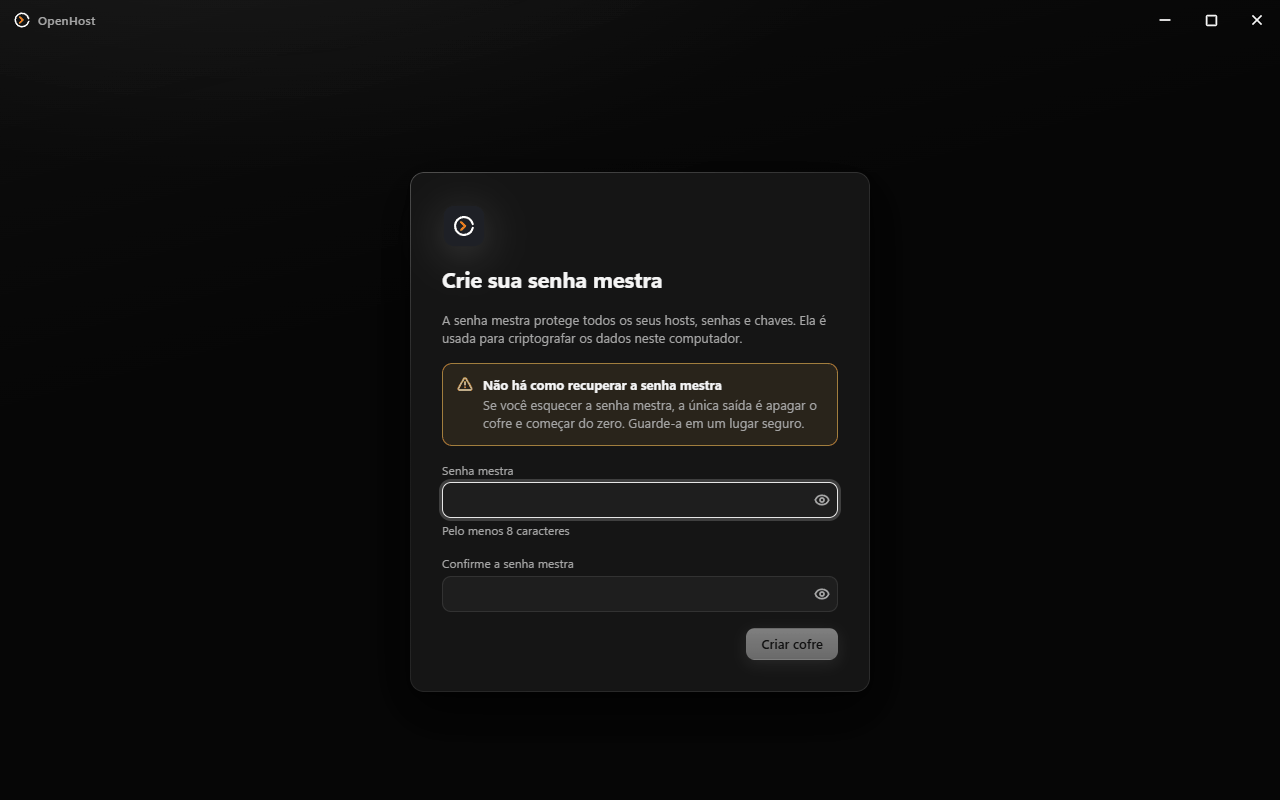
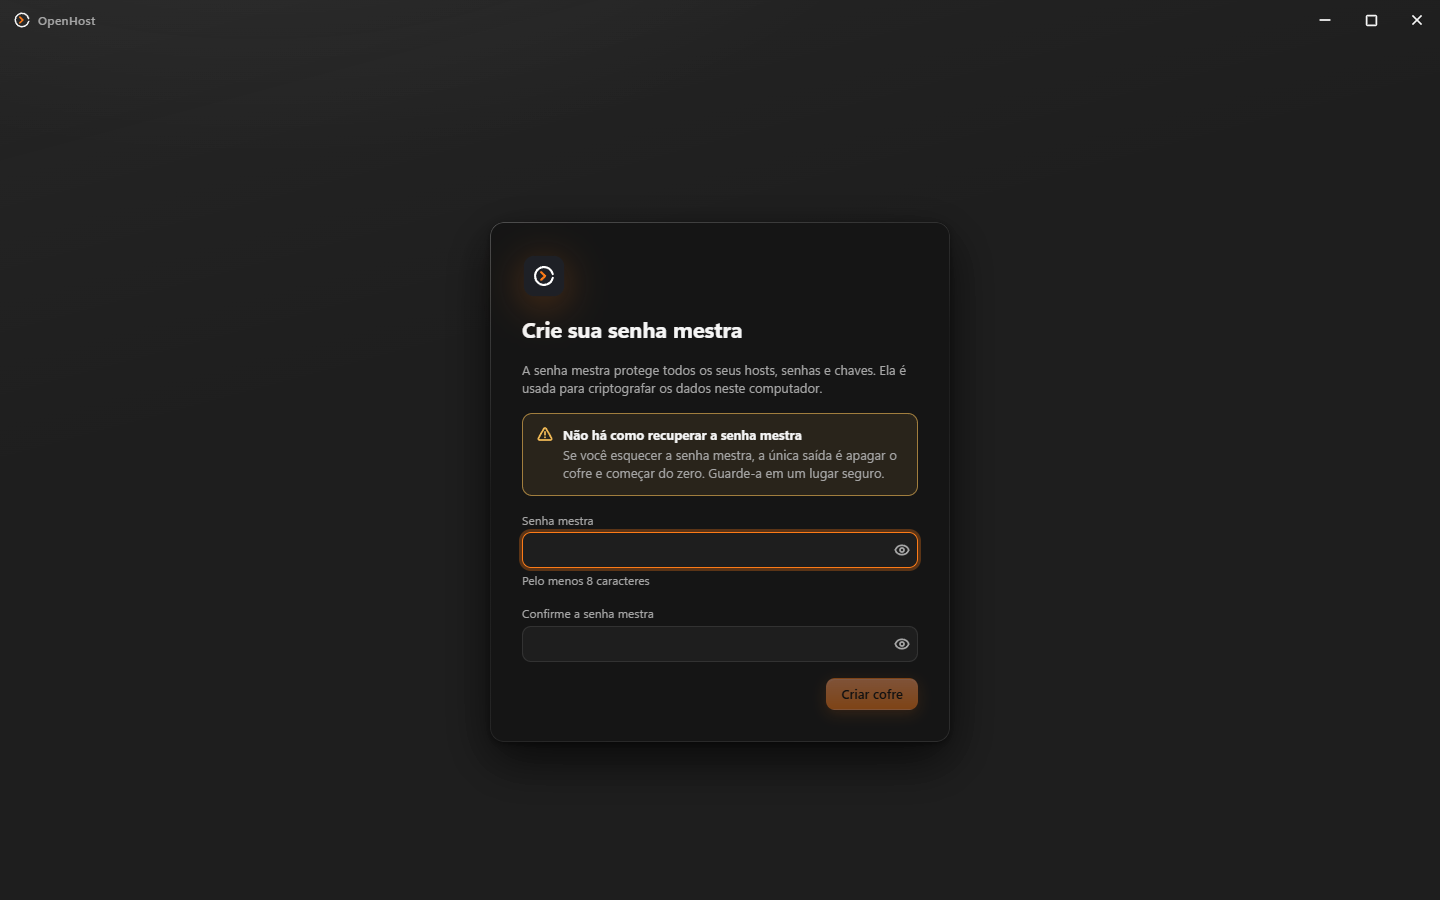
docs: README atualizado para a 0.9.0 com prints novos
Tira a migração do cofre da versão 001 e os prints da 0.4.

diff --git a/README.md b/README.md
@@ -1,39 +1,90 @@
 # OpenHost
 
-OpenHost é um cliente SSH desktop local-first para Windows, Linux e macOS. Ele reúne terminal SSH e local,
-cofre criptografado, organização de hosts e credenciais, SFTP, encaminhamento de portas e
-perfis de terminal em uma aplicação nativa construída com Go, Wails e React.
+Cliente SSH de desktop para quem passa o dia no terminal, feito para equipes de redes,
+infraestrutura e NOC. Reúne terminal SSH e local em abas, cofre criptografado de senhas e chaves,
+SFTP, encaminhamento de portas, comandos salvos e painéis lado a lado num app nativo para Windows,
+Linux e macOS.
 
-O nome visível do produto é **OpenHost**. Identificadores internos e o diretório de dados
-continuam usando `ShellVault` para manter compatibilidade com versões anteriores.
+**[Baixar a versão mais recente](https://github.com/EmersonRicard0/Openhost/releases/latest)** ·
+versão atual: 0.9.0
 
-**[Baixar para Windows, Linux ou macOS](https://github.com/EmersonRicard0/Openhost/releases)**
+![Terminal SSH com a lista de hosts](docs/screenshots/03-terminal-ssh.png)
 
-![Terminal SSH com a lista de hosts](docs/screenshots/02-terminal-ssh.png)
+## O que ele faz
+
+**Cofre local e seguro**
+- Senhas, chaves privadas e passphrases ficam num cofre protegido pela senha mestra
+  (Argon2id + XChaCha20-Poly1305). Funciona sem conta e sem internet.
+- Bloqueio automático por inatividade, chave do servidor sempre conferida e segredos fora de logs
+  e mensagens de erro.
+
+**Hosts organizados**
+- Grupos e subgrupos com arrastar e soltar, ambientes coloridos (Produção, Homologação,
+  Laboratório, Cliente ou seus), tags e notas. A busca procura em nome, endereço, usuário, tags e
+  notas.
+- Ícone do fabricante detectado ao conectar: Cisco, Huawei, Juniper, MikroTik, ZTE, Datacom,
+  Fortinet, Hillstone e sistemas Linux.
+- Algoritmos legados por host, para equipamentos antigos, com aviso permanente na lista.
+- Tela inicial com favoritos e recentes, e conexão rápida digitando `usuário@host:porta` ou um
+  `ssh -p`.
+
+**Terminal**
+- SSH por senha, chave, agente ou “perguntar ao conectar”; terminais locais (PowerShell, Prompt de
+  Comando, PowerShell 7, Git Bash, WSL, bash/zsh/fish).
+- A aba mostra o nome lido do prompt do equipamento e a cor do ambiente; o terminal ganha uma borda
+  na mesma cor.
+- Reconexão automática quando a rede cai, busca no histórico, zoom por aba e aceleração por GPU
+  opcional.
+- Até 4 painéis por aba, arrastando uma aba sobre o terminal, sem reconectar.
+- **Digitar no grupo** (Ctrl+Shift+G): o que você digita no painel ativo chega aos outros. Painéis
+  de Produção só entram depois de confirmar.
+
+**Comandos salvos e paleta**
+- Comandos com tags e campos a preencher (`display interface {interface}`), cifrados no cofre.
+- Paleta (Ctrl+Shift+P) com hosts, comandos, terminais e ações: Enter envia ao painel ativo e
+  Shift+Enter ao grupo inteiro.
+
+**Arquivos e rede**
+- Navegador SFTP numa aba, com transferências em paralelo, progresso e cancelamento.
+- Encaminhamento de portas local, remoto e dinâmico (SOCKS) por host.
+
+**Do seu jeito**
+- Tema claro ou escuro, vidro ou sólido, cor de destaque, lista confortável ou compacta.
+- Fonte, tamanho, cursor e esquemas de cores do terminal, com importação do Windows Terminal e do
+  iTerm. Atalhos configuráveis.
+- Animações Completas, Reduzidas ou Desligadas; por padrão segue o “reduzir movimento” do sistema.
+
+**Sincronização e atualização**
+- Sincronização opcional pelo Google Drive: hosts, grupos, credenciais, comandos e preferências
+  vão cifrados com a chave do cofre. Nem o Google nem o projeto conseguem ler nada.
+- O app avisa quando sai versão nova e se atualiza sozinho, conferindo assinatura e
+  `SHA256SUMS.txt` antes de instalar.
 
 | | |
 |---|---|
-| ![Paleta de comandos](docs/screenshots/03-paleta.png) | ![Navegador SFTP](docs/screenshots/04-sftp.png) |
-| **Paleta de comandos** (Ctrl+Shift+P): hosts, terminais locais detectados e ações. | **SFTP** com transferências em paralelo, na mesma aba de trabalho. |
-| ![Personalização do terminal](docs/screenshots/05-personalizacao.png) | ![Host com algoritmos legados](docs/screenshots/06-host-legado.png) |
-| **Personalização ao vivo**: fonte, tamanho e esquemas de cores, com importação de Windows Terminal e iTerm. | **Equipamentos legados**: algoritmos antigos por host, com aviso permanente na lista. |
-
-![Criação do cofre](docs/screenshots/01-cofre.png)
-
-O cofre é criptografado com a senha mestra (Argon2id + XChaCha20-Poly1305) e nunca sai do
-computador.
+| ![Tela inicial](docs/screenshots/02-inicio.png) | ![Cadastro de host](docs/screenshots/10-host.png) |
+| **Tela inicial**: favoritos, conexão rápida e hosts por grupo. | **Cadastro de host**: ambiente, autenticação, tags, notas e perfil próprio. |
+| ![Painéis lado a lado](docs/screenshots/04-paineis.png) | ![Digitar no grupo](docs/screenshots/05-digitar-no-grupo.png) |
+| **Painéis**: SSH e terminal local na mesma aba. | **Digitar no grupo**: um comando para vários equipamentos. |
+| ![Paleta de comandos](docs/screenshots/06-paleta.png) | ![Comandos salvos](docs/screenshots/07-comandos.png) |
+| **Paleta** (Ctrl+Shift+P): hosts, comandos e ações. | **Comandos salvos** com tags e campos. |
+| ![Navegador SFTP](docs/screenshots/08-sftp.png) | ![Aparência](docs/screenshots/09-aparencia.png) |
+| **SFTP** na mesma área de trabalho. | **Aparência**: tema, destaque, densidade, animações e ambientes. |
 
 ## Instalar
 
-Baixe o arquivo do seu sistema na [página de releases](https://github.com/EmersonRicard0/Openhost/releases):
+Baixe o arquivo do seu sistema na [página de releases](https://github.com/EmersonRicard0/Openhost/releases/latest):
 
 | Sistema | Arquivo | Versão mínima |
 |---|---|---|
 | Windows | `OpenHost-<versão>-windows-amd64-installer.exe` | Windows 10 (64 bits) |
 | macOS (Intel e Apple Silicon) | `OpenHost-<versão>-macos-universal.dmg` | macOS 12 |
-| Ubuntu, Debian | `openhost_<versão>_amd64.deb` | Ubuntu 22.04, Debian 12 |
-| Fedora, openSUSE | `openhost-<versão>-1.x86_64.rpm` | Fedora 39, openSUSE Leap 15.5 |
-| Qualquer Linux | `OpenHost-<versão>-x86_64.AppImage` | WebKitGTK 4.1 instalado |
+| Ubuntu, Debian | `openhost_<versão>_amd64.deb` ou `_arm64.deb` | Ubuntu 22.04, Debian 12 |
+| Fedora, openSUSE | `openhost-<versão>-1.x86_64.rpm` ou `.aarch64.rpm` | Fedora 39, openSUSE Leap 15.5 |
+| Qualquer Linux | `OpenHost-<versão>-x86_64.AppImage` ou `-aarch64.AppImage` | WebKitGTK 4.1 instalado |
+
+Confira o download com o `SHA256SUMS.txt`. Depois de instalado, as próximas versões chegam pelo
+próprio app.
 
 **Primeira abertura no macOS.** O app ainda não tem assinatura da Apple. Arraste-o para
 Aplicativos, clique com o botão direito nele e escolha **Abrir** (no macOS 15+, use **Ajustes do
@@ -42,149 +93,12 @@ Sistema → Privacidade e Segurança → Abrir Mesmo Assim**). Pelo Terminal:
 
 **Linux.** `sudo apt install ./openhost_<versão>_amd64.deb` ou
 `sudo dnf install ./openhost-<versão>-1.x86_64.rpm`; o AppImage roda com `chmod +x` e não precisa
-instalar. Desinstalar não apaga o cofre.
+instalar. Nos pacotes `.deb` e `.rpm`, o app baixa a atualização e mostra o comando para instalar.
+Desinstalar não apaga o cofre.
 
 O cofre fica em `%APPDATA%\ShellVault` no Windows, `~/.config/ShellVault` no Linux e
-`~/Library/Application Support/ShellVault` no macOS.
-
-## Requisitos para desenvolver
-
-- Go 1.26 ou superior. O módulo declara Go 1.26.0.
-- Wails CLI 2.17.0:
-
-  ```sh
-  go install github.com/wailsapp/wails/v2/cmd/wails@v2.17.0
-  wails doctor
-  ```
-
-- Node.js 24 LTS e npm para compilar e testar o frontend.
-- Docker para os servidores SSH dos testes de integração e E2E e para validar o Linux.
-
-Por sistema:
-
-- **Windows**: Windows 11 ou 10; WebView2 Runtime (já vem no Windows 11); NSIS para gerar o
-  instalador com `wails build -nsis`; OpenSSH Client e `ssh-agent` para validar o agente.
-- **Linux**: compilador C, GTK 3 e WebKitGTK 4.1. No Ubuntu/Debian:
-  `sudo apt install build-essential pkg-config libgtk-3-dev libwebkit2gtk-4.1-dev`. Todo comando
-  `go`/`wails` leva `-tags webkit2_41` (o Wails 2 procura o WebKitGTK 4.0 sem ela).
-- **macOS**: Xcode Command Line Tools (`xcode-select --install`).
-
-Instale as dependências das ferramentas de teste e do frontend depois de obter o repositório:
-
-```sh
-npm ci
-npm --prefix frontend ci
-```
-
-## Desenvolvimento
-
-Na raiz do repositório, inicie o aplicativo com recarga automática do frontend:
-
-```sh
-wails dev                      # no Linux: wails dev -tags webkit2_41
-```
-
-O Wails usa `frontend/` como projeto web e executa os scripts definidos no
-[`wails.json`](wails.json).
-
-## Build
-
-Os builds otimizados saem em `build/bin/`:
-
-```sh
-# Windows: executável e instalador NSIS
-wails build -clean -nsis -trimpath -ldflags "-s -w"
-
-# Linux
-wails build -clean -tags webkit2_41 -trimpath -ldflags "-s -w"
-scripts/package-linux.sh 0.4.0 amd64          # .deb, .rpm e AppImage em dist/ (nfpm e appimagetool)
-
-# macOS (Intel e Apple Silicon no mesmo .app)
-wails build -clean -platform darwin/universal -trimpath -ldflags "-s -w"
-scripts/package-macos.sh 0.4.0                # .dmg em dist/
-```
-
-O executável mantém o nome interno `shellvault`; o produto instalado é apresentado como
-OpenHost. Para validar os pacotes do Linux em contêineres (Ubuntu 22.04 e 24.04, Fedora 39):
-`scripts/linux-docker-check.sh`.
-
-## Publicar uma versão
-
-O workflow de release é disparado por tags no formato `vX.Y.Z`. Antes de publicar, mantenha o
-número em `wails.json` alinhado com a tag, escreva `docs/release-notes/X.Y.Z.md` e confirme que
-`node scripts/check.mjs` está verde.
-
-Crie e envie a tag a partir do commit que será publicado:
-
-```sh
-git tag v0.4.0
-git push origin v0.4.0
-```
-
-O GitHub Actions compila nos três sistemas, confere os binários, gera o instalador do Windows, o
-`.dmg` universal e os pacotes do Linux (amd64 e, quando der, arm64), publica tudo com o
-`SHA256SUMS.txt` e usa as notas de `docs/release-notes/`. Tags com sufixo, como
-`v0.4.0-rc.1`, saem como pré-release.
-
-## Testes
-
-Testes Go:
-
-```powershell
-go test ./...
-```
-
-Testes unitários do frontend:
-
-```powershell
-npm --prefix frontend run test
-```
-
-O teste de abertura compila o app com `-tags smoke`, abre com um diretório de dados vazio, cria
-cofre, host e chave e confere que nenhum segredo ficou legível em disco (no Linux sem tela, use
-`xvfb-run`):
-
-```sh
-node scripts/smoke.mjs
-```
-
-O portão de qualidade completo também executa `go vet`, testes Go, verificação de tokens,
-lint, verificação de tipos e testes do frontend:
-
-```powershell
-node scripts/check.mjs
-```
-
-Para os testes de integração, inicie primeiro as fixtures Docker e depois execute os pacotes
-Go com a tag `integration`:
-
-```powershell
-node scripts/sshd.mjs up
-go test -tags integration ./internal/...
-```
-
-Ao terminar, os contêineres podem ser removidos com:
-
-```powershell
-node scripts/sshd.mjs down
-```
-
-Os testes E2E são executados a partir de `frontend/`. O setup do Playwright gera
-automaticamente um build Wails com a tag `e2e`:
-
-```powershell
-Set-Location frontend
-npx playwright test
-```
-
-Quando `build/bin/shellvault-e2e.exe` já tiver sido gerado e não precisar ser recompilado,
-use `SHELLVAULT_E2E_SKIP_BUILD=1`:
-
-```powershell
-$env:SHELLVAULT_E2E_SKIP_BUILD = "1"
-npx playwright test
-Remove-Item Env:SHELLVAULT_E2E_SKIP_BUILD
-```
+`~/Library/Application Support/ShellVault` no macOS. `ShellVault` é o nome interno do projeto,
+mantido para compatibilidade.
 
 ## Importar e exportar
 
@@ -207,36 +121,105 @@ primeira conexão. A última importação pode ser desfeita.
 
 Para exportar, use **Exportar…** na mesma tela, no menu de um grupo ou no de um host:
 
-- **OpenHost** (`.openhost`): para levar tudo a outro computador. Com *Incluir chaves privadas*,
-  o arquivo inteiro é criptografado com uma senha sua (Argon2id + XChaCha20-Poly1305) e a senha
-  mestra é pedida antes; sem chaves, ele não contém segredo nenhum, mas endereços e usuários
-  ficam legíveis.
+- **OpenHost** (`.openhost`): para levar tudo a outro computador, incluindo os comandos salvos.
+  Com *Incluir chaves privadas*, o arquivo inteiro é criptografado com uma senha sua
+  (Argon2id + XChaCha20-Poly1305) e a senha mestra é pedida antes; sem chaves, ele não contém
+  segredo nenhum, mas endereços e usuários ficam legíveis.
 - **OpenSSH**: blocos `Host` para um arquivo novo ou acrescentados ao `~/.ssh/config`, entre
   marcadores do OpenHost e com cópia de segurança do arquivo antes.
 - **CSV**: no mesmo modelo da importação.
 
-## Migração do cofre anterior
+## Desenvolver
 
-No Windows, a versão Wails reconhece automaticamente o cofre da versão 001 no diretório:
+O projeto usa Go, [Wails](https://wails.io) e React, e segue o fluxo do
+[GitHub Spec Kit](https://github.com/github/spec-kit): cada funcionalidade tem spec, plano e
+tarefas em [`specs/`](specs).
 
-```text
-%APPDATA%\ShellVault
+Requisitos:
+
+- Go 1.26 ou superior.
+- Wails CLI 2.17.0:
+
+  ```sh
+  go install github.com/wailsapp/wails/v2/cmd/wails@v2.17.0
+  wails doctor
+  ```
+
+- Node.js 24 LTS e npm.
+- Docker para os servidores SSH dos testes de integração e E2E e para validar o Linux.
+
+Por sistema:
+
+- **Windows**: Windows 10 ou 11; WebView2 Runtime (já vem no Windows 11); NSIS para gerar o
+  instalador; OpenSSH Client e `ssh-agent` para validar o agente.
+- **Linux**: compilador C, GTK 3 e WebKitGTK 4.1. No Ubuntu/Debian:
+  `sudo apt install build-essential pkg-config libgtk-3-dev libwebkit2gtk-4.1-dev`. Todo comando
+  `go`/`wails` leva `-tags webkit2_41`.
+- **macOS**: Xcode Command Line Tools (`xcode-select --install`).
+
+Instale as dependências e rode o app com recarga automática do frontend:
+
+```sh
+npm ci
+npm --prefix frontend ci
+wails dev                      # no Linux: wails dev -tags webkit2_41
 ```
 
-Quando `vault.svlt` existe e ainda não há `shellvault.db`, a tela de desbloqueio informa que
-encontrou um cofre anterior. Ao digitar a senha mestra correta, o aplicativo migra numa única
-transação:
+## Build
 
-- grupos e sua hierarquia;
-- hosts e ordem de exibição;
-- credenciais de senha e chave;
-- chaves de servidores já conhecidas;
-- regras de encaminhamento;
-- configurações do cofre e preferências da interface.
+Os builds otimizados saem em `build/bin/`:
 
-Depois de gravar e conferir o novo `shellvault.db`, o arquivo original é preservado como
-`vault.svlt.migrated`. Se a senha estiver errada ou a migração falhar, o arquivo original não é
-alterado e a operação pode ser tentada novamente.
+```sh
+# Windows: executável e instalador NSIS
+wails build -clean -nsis -trimpath -ldflags "-s -w"
 
-Mais detalhes de validação estão em
-[`specs/002-wails-migration/quickstart.md`](specs/002-wails-migration/quickstart.md).
+# Linux
+wails build -clean -tags webkit2_41 -trimpath -ldflags "-s -w"
+scripts/package-linux.sh <versão> amd64       # .deb, .rpm e AppImage em dist/ (nfpm e appimagetool)
+
+# macOS (Intel e Apple Silicon no mesmo .app)
+wails build -clean -platform darwin/universal -trimpath -ldflags "-s -w"
+scripts/package-macos.sh <versão>             # .dmg em dist/
+```
+
+O executável mantém o nome interno `shellvault`. Para validar os pacotes do Linux em contêineres
+(Ubuntu 22.04 e 24.04, Fedora 39): `scripts/linux-docker-check.sh`.
+
+## Testes
+
+```sh
+node scripts/check.mjs           # portão completo: go vet, testes Go, tokens, lint, tipos e Vitest
+go test ./...                    # só os testes Go
+npm --prefix frontend run test   # só os testes do frontend
+node scripts/smoke.mjs           # abre o app, cria cofre, host e chave e confere que nada ficou legível em disco
+```
+
+Testes de integração, com os servidores SSH em Docker:
+
+```sh
+node scripts/sshd.mjs up
+go test -tags integration ./internal/...
+node scripts/sshd.mjs down
+```
+
+Testes E2E (Playwright), a partir de `frontend/`. O setup gera um build Wails com a tag `e2e`;
+com `SHELLVAULT_E2E_SKIP_BUILD=1` ele reaproveita o `build/bin/shellvault-e2e.exe` existente:
+
+```sh
+cd frontend
+npx playwright test
+```
+
+## Publicar uma versão
+
+O workflow de release é disparado por tags `vX.Y.Z`. Antes, alinhe a versão em `wails.json`,
+escreva `docs/release-notes/X.Y.Z.md` e confirme que `node scripts/check.mjs` está verde. Depois:
+
+```sh
+git tag vX.Y.Z
+git push origin vX.Y.Z
+```
+
+O GitHub Actions compila nos três sistemas, gera o instalador do Windows, o `.dmg` universal e os
+pacotes do Linux (amd64 e arm64), assina o `SHA256SUMS.txt` e publica com as notas de
+`docs/release-notes/`. Tags com sufixo, como `v1.0.0-rc.1`, saem como pré-release.
